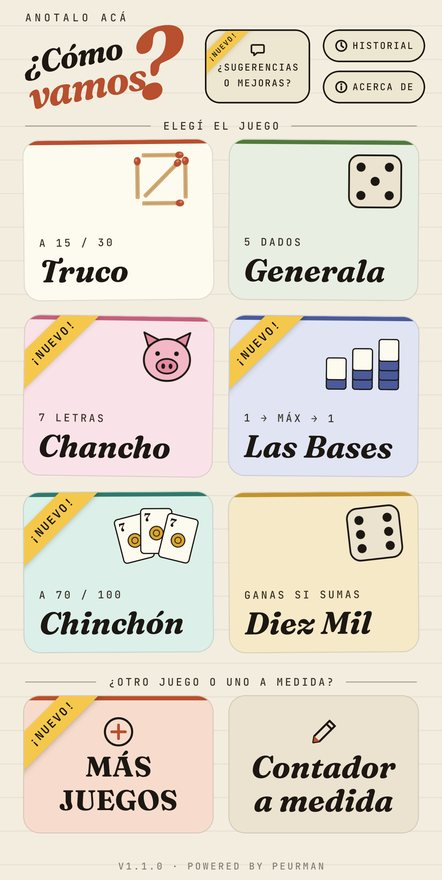
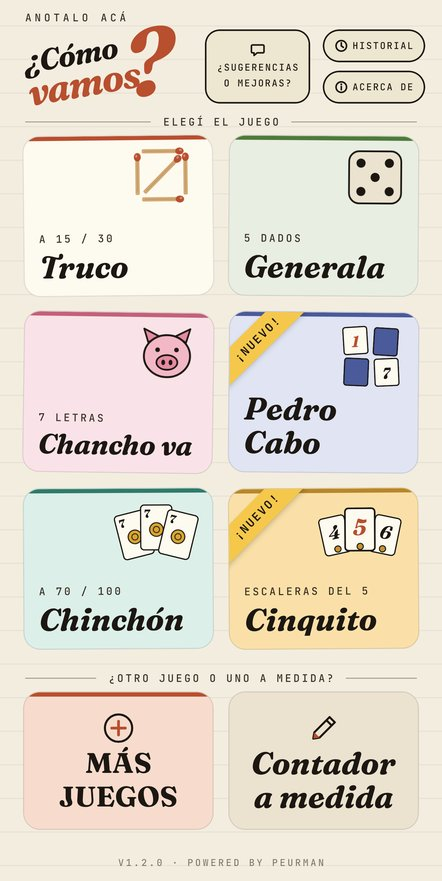
Landing 1.2: Pedro, Cinquito, Burako, ¿Cómo se juega? y nombres nuevos

diff --git a/index.html b/index.html
@@ -3,13 +3,13 @@
 <head>
 <meta charset="utf-8">
 <meta name="viewport" content="width=device-width, initial-scale=1">
-<title>¿Cómo vamos? — Anotador de Truco, Generala, Chinchón, Chancho y más</title>
-<meta name="description" content="Como Vamos: app gratuita para anotar Truco, Generala, Chinchón, Chancho, Las Bases, Diez Mil, Burako, Carioca y Tute. Sin registro, sin publicidad y funciona sin internet.">
+<title>¿Cómo vamos? — Anotador de Truco, Generala, Chinchón, Pedro, Cinquito y más</title>
+<meta name="description" content="Como Vamos: app gratuita para anotar Truco, Generala, Chinchón, Chancho va, Pedro / Cabo, Cinquito, Burako, Rummy, Carioca, Tute, Diez Mil y Las Bazas / La Pocha, con las reglas de cada juego. Sin registro, sin publicidad y funciona sin internet.">
 <link rel="icon" href="icon.png">
 <link rel="apple-touch-icon" href="apple-touch-icon.png">
 <meta property="og:type" content="website">
 <meta property="og:title" content="¿Cómo vamos? — el anotador para tus juegos de cartas y dados">
-<meta property="og:description" content="Truco, Generala, Chinchón, Chancho, Las Bases, Diez Mil y más. Gratis, sin registro, sin publicidad.">
+<meta property="og:description" content="Truco, Generala, Chinchón, Pedro, Cinquito, Burako y más, con las reglas de cada juego. Gratis, sin registro, sin publicidad.">
 <meta property="og:image" content="https://peurman.github.io/comovamos/og.png">
 <meta property="og:url" content="https://peurman.github.io/comovamos/">
 <meta name="twitter:card" content="summary_large_image">
@@ -61,7 +61,7 @@ footer a{color:var(--accent-dark)}
   <img src="icon.png" alt="Ícono de ¿Cómo vamos?">
   <h1>¿Cómo <span>vamos?</span></h1>
   <p class="mono">anotalo acá</p>
-  <p class="lead">El anotador para las tardes de mate, playa y mesas de bar. Truco, Generala, Chinchón, Chancho y más — sin papel ni lapicera.</p>
+  <p class="lead">El anotador para las tardes de mate, playa y mesas de bar. Truco, Generala, Chinchón, Pedro, Cinquito y más — sin papel ni lapicera. Y si no te acordás las reglas, te las explica.</p>
   <div class="cta">
     <a class="btn" href="https://play.google.com/store/apps/details?id=com.peurman.comovamos&amp;hl=es_AR"><small>Disponible en</small><b>Google Play</b></a>
     <a class="btn alt" href="https://apps.apple.com/ar/app/como-vamos/id6814896731"><small>Descargala en</small><b>App Store</b></a>
@@ -71,23 +71,25 @@ footer a{color:var(--accent-dark)}
 
 <div class="shots">
   <img src="shot-home.jpg" alt="Pantalla de inicio con los juegos" loading="lazy">
+  <img src="shot-comosejuega.jpg" alt="¿Cómo se juega? Reglas del Cinquito con link a un video" loading="lazy">
+  <img src="shot-pedro.jpg" alt="Planilla de Pedro / Cabo" loading="lazy">
+  <img src="shot-burako.jpg" alt="Anotador del Burako: fichas, canastas, cierre y muerto" loading="lazy">
   <img src="shot-truco.jpg" alt="Truco 3 contra 3 con Pica Pica" loading="lazy">
   <img src="shot-chinchon.jpg" alt="Planilla de Chinchón con cierres" loading="lazy">
-  <img src="shot-lasbases.jpg" alt="Planilla de Las Bases" loading="lazy">
   <img src="shot-generala.jpg" alt="Planilla de Generala" loading="lazy">
-  <img src="shot-chancho.jpg" alt="Chancho con letras tachadas" loading="lazy">
   <img src="shot-carioca.jpg" alt="Planilla de Carioca" loading="lazy">
-  <img src="shot-masjuegos.jpg" alt="Más juegos: Burako, Carioca y Tute" loading="lazy">
+  <img src="shot-masjuegos.jpg" alt="Más juegos: Rummy, Carioca, Tute, Burako, Diez Mil y Las Bazas" loading="lazy">
 </div>
 <p class="mono hint">deslizá para ver más →</p>
 
-<h2>Novedades <small>versión 1.1</small></h2>
+<h2>Novedades <small>versión 1.2</small></h2>
 <div class="news">
   <ul>
-    <li><b>Juegos nuevos:</b> Chancho, Chinchón y Las Bases.</li>
-    <li><b>Truco 3 contra 3 con Pica Pica:</b> el tablero marca la zona y avisa cuándo arranca y cuándo termina.</li>
-    <li><b>Planillas/anotadores más claros,</b> botones y popups con estilos renovados.</li>
-    <li><b>Revancha</b> conservando los mismos jugadores y la misma configuración.</li>
+    <li><b>¿Cómo se juega?:</b> las reglas de cada juego y un video para aprenderlo.</li>
+    <li><b>Juegos nuevos:</b> Pedro / Cabo y Cinquito.</li>
+    <li><b>Burako con su propio anotador:</b> fichas, canastas puras e impuras, cierre y muerto.</li>
+    <li><b>Nuevos nombres:</b> Chancho va, Rummy y Las Bazas / La Pocha.</li>
+    <li><b>Diez Mil:</b> los puntos vuelan hasta el total al sumar.</li>
     <li><b>¿Falta tu juego?</b> Pedilo desde la app, en "¿Sugerencias o mejoras?" (es anónimo).</li>
   </ul>
 </div>
@@ -96,15 +98,18 @@ footer a{color:var(--accent-dark)}
 <ul class="games">
   <li><b>Truco</b><span>Fósforos, a 15 o 30, con o sin flor, hasta 3 contra 3</span></li>
   <li><b>Generala</b><span>Todas las categorías, con servida</span></li>
-  <li class="new"><b>Chancho</b><span>C·H·A·N·C·H·O: elegís quién perdió la mano</span></li>
-  <li class="new"><b>Las Bases</b><span>De 1 carta al máximo y de vuelta a 1</span></li>
-  <li class="new"><b>Chinchón</b><span>A 70 o 100, con reenganche y cierres</span></li>
-  <li><b>Diez Mil</b><span>Acumulador con botones rápidos</span></li>
-  <li><b>Burako</b><span>4 o 6 manos, gana el que menos suma</span></li>
+  <li><b>Chancho va</b><span>C·H·A·N·C·H·O: elegís quién perdió la mano</span></li>
+  <li class="new"><b>Pedro / Cabo</b><span>Gana el que menos suma; cantar Pedro resta o suma</span></li>
+  <li><b>Chinchón</b><span>A 70 o 100, con reenganche y cierres</span></li>
+  <li class="new"><b>Cinquito</b><span>Corta y resta 10; a 100 quedás afuera</span></li>
+  <li><b>Rummy</b><span>4 o 6 manos, gana el que menos suma</span></li>
   <li><b>Carioca</b><span>Las 7 manos, con "cortó"</span></li>
   <li><b>Tute cabrero</b><span>T·U·T·E y último en pie</span></li>
+  <li class="new"><b>Burako</b><span>Canastas, cierre y muerto; a 3.000</span></li>
+  <li><b>Diez Mil</b><span>Acumulador con botones rápidos</span></li>
+  <li><b>Las Bazas / La Pocha</b><span>De 1 carta al máximo y de vuelta a 1</span></li>
   <li><b>A medida</b><span>Armá tu propio contador</span></li>
-  <li class="more">Burako, Carioca y Tute están en la sección "Más juegos" de la app.</li>
+  <li class="more">Rummy, Carioca, Tute, Burako, Diez Mil y Las Bazas están en la sección "Más juegos" de la app. Cada juego tiene su "¿Cómo se juega?".</li>
 </ul>
 
 <footer>
